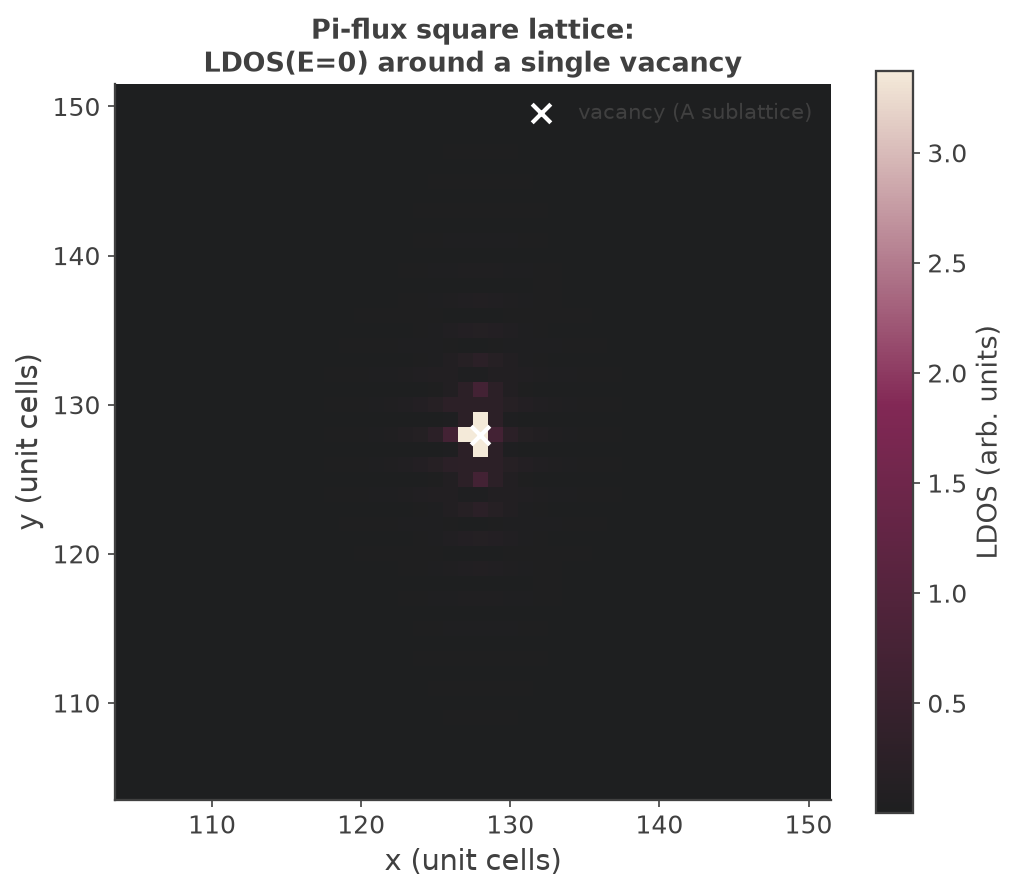
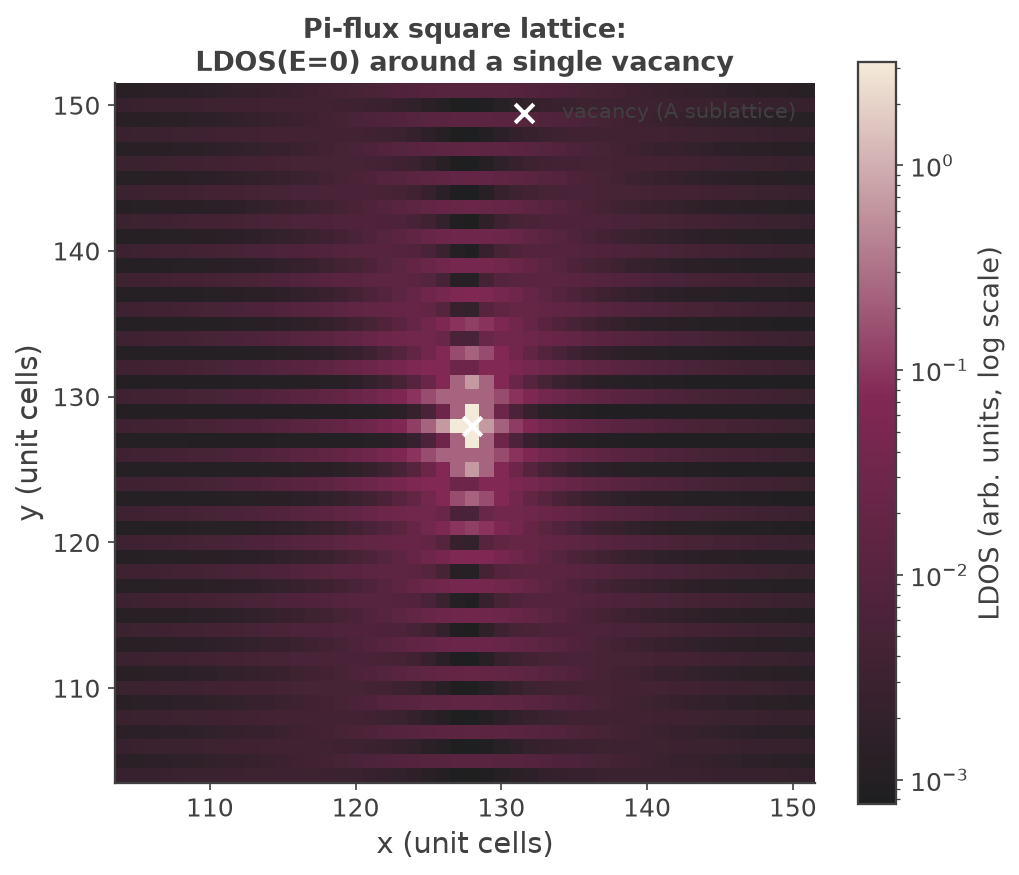
Use a log color scale for the piflux LDOS map
Linear scale washed out everything except the brightest pixel at the
vacancy -- LDOS spans ~2 orders of magnitude here (background ~0.02,
peak ~2.9), so the decaying oscillatory structure around the vacancy was
invisible. LogNorm reveals it clearly. The vacancy site itself is exactly
0 (no orbital there, not plottable on a log axis) -- the displayed array
is floored at the smallest positive value in-frame for visualization only,
the underlying data/analysis is untouched.

diff --git a/examples/process_piflux_ldos.py b/examples/process_piflux_ldos.py
@@ -21,6 +21,7 @@ import sys
 import h5py
 import numpy as np
 import matplotlib.pyplot as plt
+from matplotlib.colors import LogNorm
 
 import kite_style
 
@@ -47,10 +48,25 @@ def plot_vacancy_ldos(h5_name, lx, ly, half_window=24,
     y0, y1 = max(cy - half_window, 0), min(cy + half_window, ly)
     window = total[y0:y1, x0:x1]
 
+    # LDOS spans ~2 orders of magnitude here (background ~0.02, peak ~2.9) --
+    # a linear color scale washes out everything except the brightest pixel,
+    # hiding the decaying Friedel-oscillation ring structure around it. Use a
+    # log color scale instead; the vacancy site itself is exactly 0 (no
+    # orbital there), which LogNorm can't represent, so floor the *displayed*
+    # values (not the underlying data) at a small positive value -- it then
+    # just renders as the darkest color, which is the physically correct
+    # takeaway (LDOS suppressed to ~0) even though the true value isn't
+    # literally plottable on a log axis.
+    positive = window[window > 0]
+    vmin = positive.min() if positive.size else 1e-3
+    vmax = window.max()
+    display = np.clip(window, vmin, None)
+
     fig, ax = plt.subplots(figsize=(7, 6))
     cmap = kite_style.kite_spectral_cmap()
-    mesh = ax.pcolormesh(np.arange(x0, x1), np.arange(y0, y1), window,
-                          cmap=cmap, shading="auto", rasterized=True)
+    mesh = ax.pcolormesh(np.arange(x0, x1), np.arange(y0, y1), display,
+                          cmap=cmap, shading="auto", rasterized=True,
+                          norm=LogNorm(vmin=vmin, vmax=vmax))
     ax.scatter([cx], [cy], marker="x", color="white", s=80,
                linewidths=2, label="vacancy (A sublattice)")
     ax.set_xlabel("x (unit cells)", fontsize=14)
@@ -60,7 +76,7 @@ def plot_vacancy_ldos(h5_name, lx, ly, half_window=24,
     ax.set_aspect("equal")
     ax.legend(loc="upper right", fontsize=10, framealpha=0.85)
     cbar = fig.colorbar(mesh, ax=ax)
-    cbar.set_label(r"LDOS (arb. units)", fontsize=13)
+    cbar.set_label(r"LDOS (arb. units, log scale)", fontsize=13)
     plt.tight_layout()
     plt.savefig(out_path, dpi=150)
     plt.close(fig)